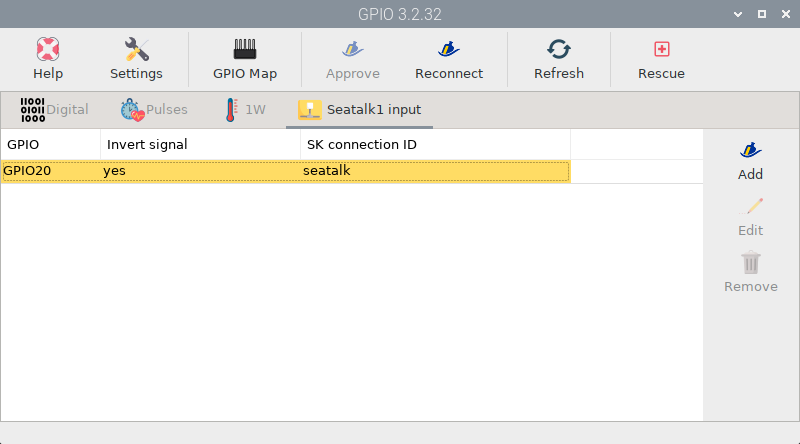
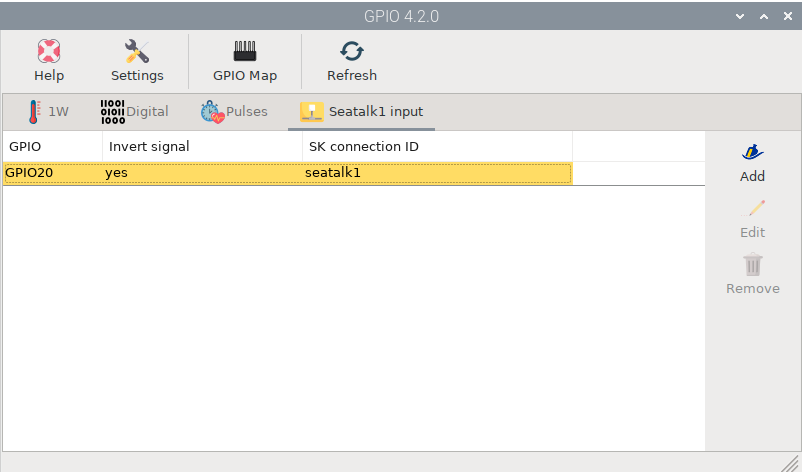
add seatalk1 for RPi4 in OP v4

diff --git a/docs/seatalk.md b/docs/seatalk.md
@@ -1,9 +1,9 @@
 # Seatalk<sup>1</sup> - input
 
 !!! important
-    The new Raspberry Pi model 5 introduced big hardware changes that caused the libraries used to get data from Seatalk<sup>1</sup>  to stop working. This forces us to create new libraries valid for all Raspberry Pi models which is not a trivial task and will take some time.
+    The new Raspberry Pi model 5 introduced big hardware changes that caused the libraries used to get data from Seatalk<sup>1</sup>  to stop working. This forces us to create new libraries which is not a trivial task and will take some time.
 
-    The content of this chapter only refers to [OpenPlotter v3](https://openplotter.readthedocs.io/3.x.x/) running on a Raspberry Pi model 4. We will add the necessary tools to [OpenPlotter v4](https://openplotter.readthedocs.io/4.x.x/) as soon as possible.
+    The content of this chapter only refers to [OpenPlotter v4](https://openplotter.readthedocs.io/4.x.x/) running on a Raspberry Pi model 4. We will add the necessary tools for Raspberry Pi model 5 as soon as possible.
 
 
 Seatalk<sup>1</sup> is an old and outdated communication protocol, but it is still quite present on many boats. The Seatalk<sup>1</sup> bus has 3 wires: **black** for GND, **yellow** for data, and **red** for power.

diff --git a/docs/index.md b/docs/index.md
@@ -19,8 +19,8 @@ MacArthur HAT is fully supported by OpenPlotter and all of its features can be e
 | Hardware | Software | Notes |
 | -------- | -------- |------ |
 | Raspberry Pi model 3 | [OpenPlotter v3.x.x](https://openplotter.readthedocs.io/3.x.x/description/what_is_openplotter.html)| NMEA 0183 does not work |
-| Raspberry Pi model 4 | [OpenPlotter v3.x.x](https://openplotter.readthedocs.io/3.x.x/description/what_is_openplotter.html)<br>[OpenPlotter v4.x.x](https://openplotter.readthedocs.io/4.x.x/description/what_is_openplotter.html)| Seatalk<sup>1</sup> does not work yet on OpenPlotter v4 |
-| Raspberry Pi model 5 | [OpenPlotter v4.x.x](https://openplotter.readthedocs.io/4.x.x/description/what_is_openplotter.html)| Seatalk<sup>1</sup> does not work yet on OpenPlotter v4 |
+| Raspberry Pi model 4 | [OpenPlotter v3.x.x](https://openplotter.readthedocs.io/3.x.x/description/what_is_openplotter.html)<br>[OpenPlotter v4.x.x](https://openplotter.readthedocs.io/4.x.x/description/what_is_openplotter.html)| |
+| Raspberry Pi model 5 | [OpenPlotter v4.x.x](https://openplotter.readthedocs.io/4.x.x/description/what_is_openplotter.html)| Seatalk<sup>1</sup> does not work yet |
 
 ## Features
 
